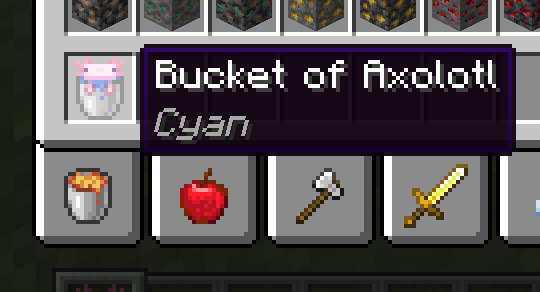
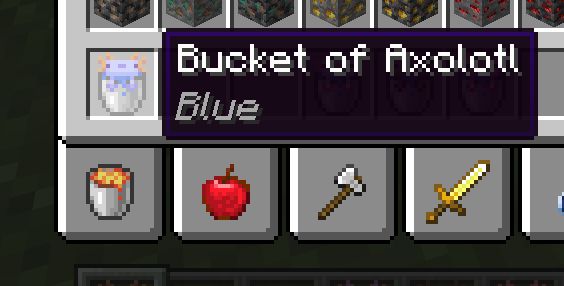
Meta: Update preview image and update README

diff --git a/README.md b/README.md
@@ -1,12 +1,25 @@
 # AxolotlViewer for Fabric 
 
-AxolotlViewer adds the colour of the axolotl to the bucket's tooltip.
+AxolotlViewer makes it easier to see what type of axolotl is in your inventory.
+It adds the colour of the axolotl to the bucket's tooltip, and also changes the texture of the bucket.
 
 ![image](.github/preview.png)
 
 ## Download
 
 Get the latest download from the [releases page](https://github.com/cbyrneee/AxolotlViewer/releases).
+
+## Notes 
+To modify the coloured bucket texture, you need to change ``assets/axolotlviewer/textures/item/axolotl_bucket_[x].png``
+
+``[x]`` being one of the following:
+- blue
+- cyan
+- gold
+- wild
+
+Check the [resources](https://github.com/cbyrneee/AxolotlViewer/tree/main/src/main/resources) directory to see how it is layed out.
+
 
 ## License
 
